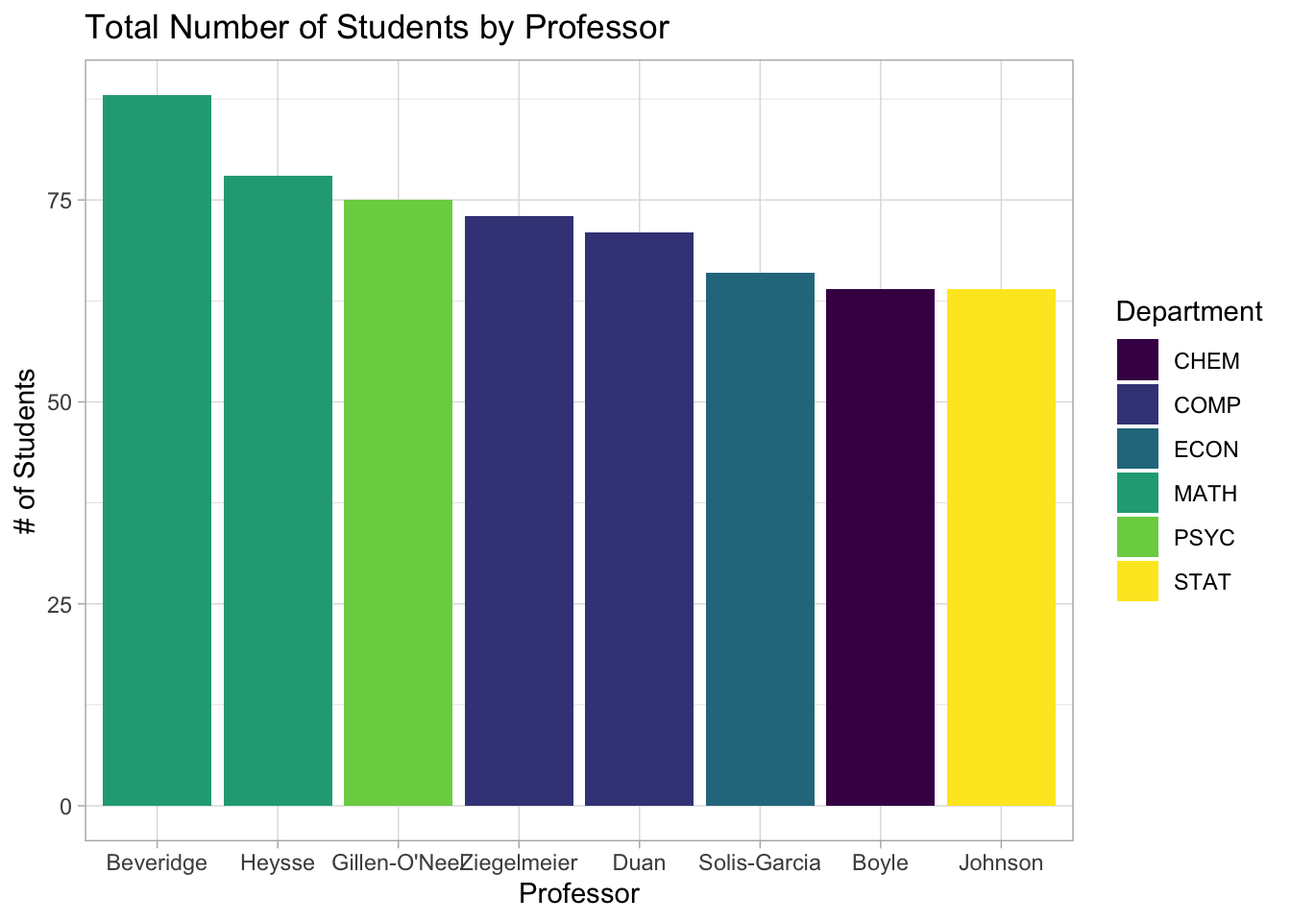
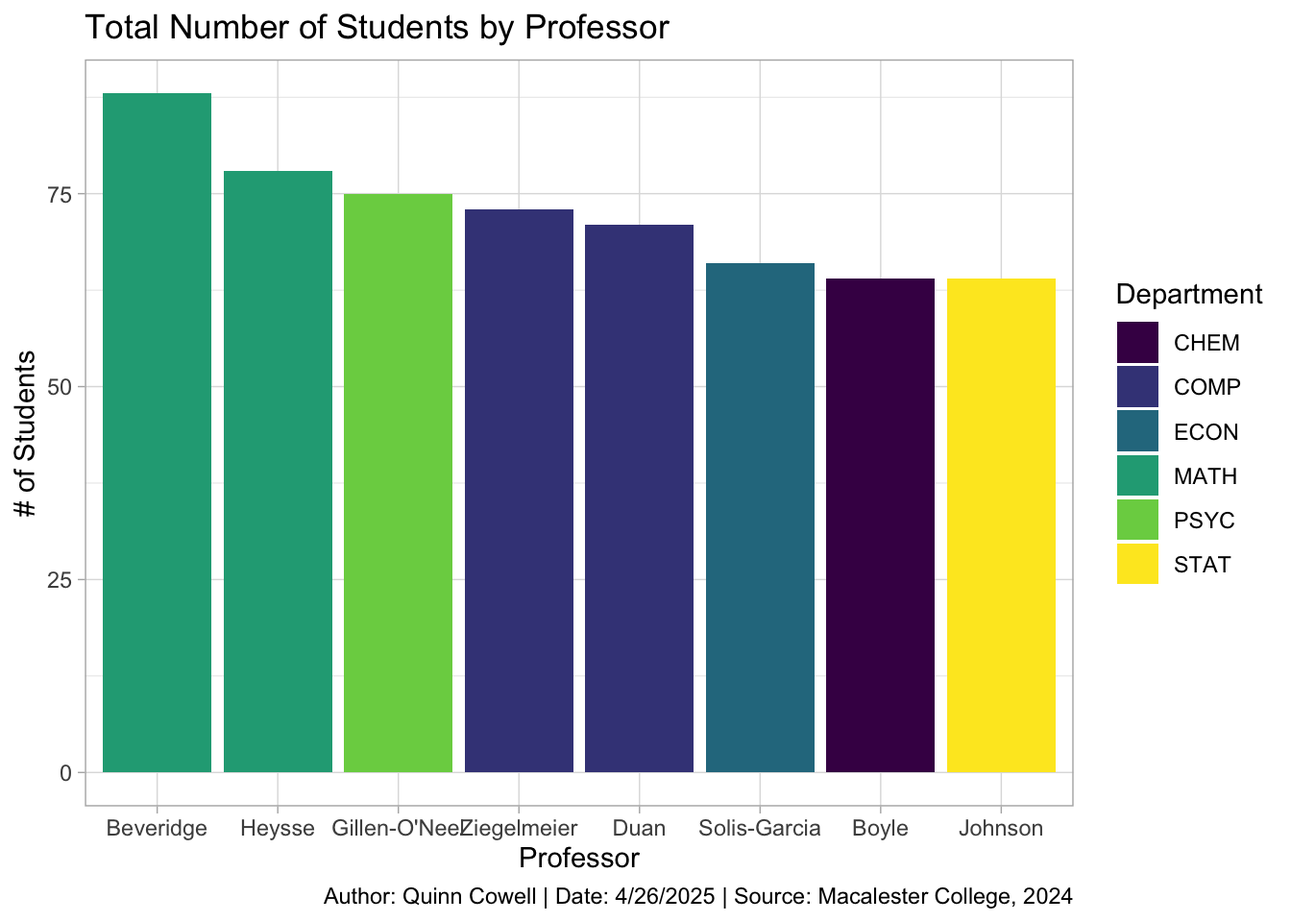
Built site for gh-pages

diff --git a/bw/bw-spatial.html b/bw/bw-spatial.html
@@ -306,8 +306,8 @@ pre > code.sourceCode > span > a:first-child::before { text-decoration: underlin
 <div class="cell">
 <div class="cell-output-display">
 <div class="quarto-figure quarto-figure-center">
-<figure class="figure"><p><img src="bw-spatial_files/figure-html/unnamed-chunk-1-1.png" class="img-fluid figure-img" alt="A choropleth map of the US showing percentage of Republican vote share by county in the 2020 presidential election. Republicans tend to have higher vote shares in less dense areas, and lower vote shares in more dense areas." width="672"></p>
-<figcaption>A choropleth map of the US showing percentage of Republican vote share by county in the 2020 presidential election.</figcaption></figure>
+<figure class="figure"><p><img src="bw-spatial_files/figure-html/unnamed-chunk-1-1.png" class="img-fluid figure-img" alt="A point map of the US showing the locations of law enforcement agencies and whether they participate in NIBRS. Some states, like New York, Pennsylvania, and Florida, have particularly high concetrations of non-participating agencies." width="672"></p>
+<figcaption>A map of the US showing the locations of law enforcement agencies and whether they participate in NIBRS</figcaption></figure>
 </div>
 </div>
 </div>
@@ -956,39 +956,31 @@ window.document.addEventListener("DOMContentLoaded", function (event) {
 <span id="cb1-8"><a href="#cb1-8"></a>Use this file to generate a professional looking **spatial** visualization.  The visualization will not perfect the first time but you are expected to improve on it throughout the semester especially after covering advanced topics such as effective viz.</span>
 <span id="cb1-9"><a href="#cb1-9"></a></span>
 <span id="cb1-12"><a href="#cb1-12"></a><span class="in">```{r}</span></span>
-<span id="cb1-13"><a href="#cb1-13"></a><span class="co">#| fig-cap: "A choropleth map of the US showing percentage of Republican vote share by county in the 2020 presidential election."</span></span>
-<span id="cb1-14"><a href="#cb1-14"></a><span class="co">#| fig-alt: "A choropleth map of the US showing percentage of Republican vote share by county in the 2020 presidential election. Republicans tend to have higher vote shares in less dense areas, and lower vote shares in more dense areas."</span></span>
-<span id="cb1-15"><a href="#cb1-15"></a><span class="fu">library</span>(tidyverse)</span>
-<span id="cb1-16"><a href="#cb1-16"></a><span class="fu">library</span>(RColorBrewer)</span>
-<span id="cb1-17"><a href="#cb1-17"></a><span class="fu">library</span>(socviz)</span>
-<span id="cb1-18"><a href="#cb1-18"></a><span class="fu">data</span>(county_map) </span>
-<span id="cb1-19"><a href="#cb1-19"></a></span>
-<span id="cb1-20"><a href="#cb1-20"></a>elections_by_counties <span class="ot">&lt;-</span> <span class="fu">read.csv</span>(<span class="st">"https://mac-stat.github.io/data/election_2020_county.csv"</span>)</span>
-<span id="cb1-21"><a href="#cb1-21"></a></span>
-<span id="cb1-22"><a href="#cb1-22"></a>elections_by_counties <span class="ot">&lt;-</span> elections_by_counties <span class="sc">|&gt;</span> </span>
-<span id="cb1-23"><a href="#cb1-23"></a>  <span class="fu">select</span>(state_name, state_abbr, county_name, county_fips,</span>
-<span id="cb1-24"><a href="#cb1-24"></a>          repub_pct_20, median_age, median_rent) <span class="sc">|&gt;</span> </span>
-<span id="cb1-25"><a href="#cb1-25"></a>  <span class="fu">mutate</span>(<span class="at">repub_20_categories =</span> </span>
-<span id="cb1-26"><a href="#cb1-26"></a>           <span class="fu">cut</span>(repub_pct_20, </span>
-<span id="cb1-27"><a href="#cb1-27"></a>               <span class="at">breaks =</span> <span class="fu">seq</span>(<span class="dv">0</span>, <span class="dv">100</span>, <span class="at">by =</span> <span class="dv">10</span>),</span>
-<span id="cb1-28"><a href="#cb1-28"></a>               <span class="at">labels =</span> <span class="fu">c</span>(<span class="st">"0-9"</span>, <span class="st">"10-19"</span>, <span class="st">"20-29"</span>, <span class="st">"30-39"</span>, <span class="st">"40-49"</span>,</span>
-<span id="cb1-29"><a href="#cb1-29"></a>                          <span class="st">"50-59"</span>, <span class="st">"60-69"</span>, <span class="st">"70-79"</span>, <span class="st">"80-89"</span>, <span class="st">"90-100"</span>),</span>
-<span id="cb1-30"><a href="#cb1-30"></a>               <span class="at">include.lowest =</span> <span class="cn">TRUE</span>))</span>
-<span id="cb1-31"><a href="#cb1-31"></a></span>
-<span id="cb1-32"><a href="#cb1-32"></a>elections_by_counties <span class="ot">&lt;-</span> elections_by_counties <span class="sc">|&gt;</span> </span>
-<span id="cb1-33"><a href="#cb1-33"></a>  <span class="fu">mutate</span>(<span class="at">county_fips =</span> <span class="fu">as.character</span>(county_fips)) <span class="sc">|&gt;</span> </span>
-<span id="cb1-34"><a href="#cb1-34"></a>  <span class="fu">mutate</span>(<span class="at">county_fips =</span> </span>
-<span id="cb1-35"><a href="#cb1-35"></a>           <span class="fu">ifelse</span>(<span class="fu">nchar</span>(county_fips) <span class="sc">==</span> <span class="dv">4</span>, <span class="fu">paste0</span>(<span class="st">"0"</span>, county_fips), county_fips))</span>
-<span id="cb1-36"><a href="#cb1-36"></a></span>
-<span id="cb1-37"><a href="#cb1-37"></a><span class="fu">ggplot</span>(elections_by_counties, <span class="fu">aes</span>(<span class="at">map_id =</span> county_fips, <span class="at">fill =</span> repub_20_categories)) <span class="sc">+</span></span>
-<span id="cb1-38"><a href="#cb1-38"></a>  <span class="fu">geom_map</span>(<span class="at">map =</span> county_map) <span class="sc">+</span></span>
-<span id="cb1-39"><a href="#cb1-39"></a>  <span class="fu">scale_fill_manual</span>(<span class="at">values =</span> <span class="fu">rev</span>(<span class="fu">brewer.pal</span>(<span class="dv">10</span>, <span class="st">"RdBu"</span>)), <span class="at">name =</span> <span class="st">"% Republican"</span>) <span class="sc">+</span></span>
-<span id="cb1-40"><a href="#cb1-40"></a>  <span class="fu">expand_limits</span>(<span class="at">x =</span> county_map<span class="sc">$</span>long, <span class="at">y =</span> county_map<span class="sc">$</span>lat) <span class="sc">+</span></span>
-<span id="cb1-41"><a href="#cb1-41"></a>  <span class="fu">theme_void</span>() <span class="sc">+</span></span>
-<span id="cb1-42"><a href="#cb1-42"></a>  <span class="fu">theme</span>(<span class="at">legend.position =</span> <span class="st">"right"</span>) <span class="sc">+</span> </span>
-<span id="cb1-43"><a href="#cb1-43"></a>  <span class="fu">coord_equal</span>() <span class="sc">+</span></span>
-<span id="cb1-44"><a href="#cb1-44"></a>  <span class="fu">labs</span>(<span class="at">title =</span> <span class="st">"Republican Vote % by County in the 2020 Presidential Election"</span>)</span>
-<span id="cb1-45"><a href="#cb1-45"></a><span class="in">```</span></span>
+<span id="cb1-13"><a href="#cb1-13"></a><span class="co">#| fig-cap: "A map of the US showing the locations of law enforcement agencies and whether they participate in NIBRS"</span></span>
+<span id="cb1-14"><a href="#cb1-14"></a><span class="co">#| fig-alt: "A point map of the US showing the locations of law enforcement agencies and whether they participate in NIBRS. Some states, like New York, Pennsylvania, and Florida, have particularly high concetrations of non-participating agencies."</span></span>
+<span id="cb1-15"><a href="#cb1-15"></a><span class="co"># load packages</span></span>
+<span id="cb1-16"><a href="#cb1-16"></a><span class="fu">library</span>(tidyverse)</span>
+<span id="cb1-17"><a href="#cb1-17"></a><span class="fu">library</span>(rnaturalearth)</span>
+<span id="cb1-18"><a href="#cb1-18"></a><span class="co">#load data</span></span>
+<span id="cb1-19"><a href="#cb1-19"></a>agencies <span class="ot">&lt;-</span> readr<span class="sc">::</span><span class="fu">read_csv</span>(<span class="st">'https://raw.githubusercontent.com/rfordatascience/tidytuesday/main/data/2025/2025-02-18/agencies.csv'</span>)</span>
+<span id="cb1-20"><a href="#cb1-20"></a><span class="co"># Create bg map</span></span>
+<span id="cb1-21"><a href="#cb1-21"></a>us_boundaries <span class="ot">&lt;-</span> <span class="fu">ne_states</span>(</span>
+<span id="cb1-22"><a href="#cb1-22"></a>  <span class="at">country =</span> <span class="fu">c</span>(<span class="st">"united states of america"</span>),</span>
+<span id="cb1-23"><a href="#cb1-23"></a>  <span class="at">returnclass =</span> <span class="st">"sf"</span>)</span>
+<span id="cb1-24"><a href="#cb1-24"></a><span class="co"># Plot map</span></span>
+<span id="cb1-25"><a href="#cb1-25"></a><span class="fu">ggplot</span>(us_boundaries) <span class="sc">+</span></span>
+<span id="cb1-26"><a href="#cb1-26"></a>  <span class="fu">geom_sf</span>(<span class="at">fill =</span> <span class="st">"white"</span>, <span class="at">color =</span> <span class="st">"black"</span>) <span class="sc">+</span></span>
+<span id="cb1-27"><a href="#cb1-27"></a>  <span class="fu">geom_point</span>(</span>
+<span id="cb1-28"><a href="#cb1-28"></a>    <span class="at">data =</span> agencies,</span>
+<span id="cb1-29"><a href="#cb1-29"></a>    <span class="fu">aes</span>(<span class="at">x =</span> longitude, <span class="at">y =</span> latitude, <span class="at">color =</span> is_nibrs),</span>
+<span id="cb1-30"><a href="#cb1-30"></a>    <span class="at">size =</span> <span class="fl">0.3</span>,</span>
+<span id="cb1-31"><a href="#cb1-31"></a>    <span class="at">alpha =</span> <span class="fl">0.5</span>) <span class="sc">+</span></span>
+<span id="cb1-32"><a href="#cb1-32"></a>  <span class="fu">coord_sf</span>(<span class="at">xlim =</span> <span class="fu">c</span>(<span class="sc">-</span><span class="fl">123.14</span>, <span class="sc">-</span><span class="dv">69</span>), <span class="at">ylim =</span> <span class="fu">c</span>(<span class="dv">23</span>, <span class="fl">50.11</span>)) <span class="sc">+</span></span>
+<span id="cb1-33"><a href="#cb1-33"></a>  <span class="fu">labs</span>(<span class="at">color =</span> <span class="st">"Participates in NIBRS"</span>,</span>
+<span id="cb1-34"><a href="#cb1-34"></a>       <span class="at">title =</span> <span class="st">"Map of Participating Agencies in the Contiguous US"</span>,</span>
+<span id="cb1-35"><a href="#cb1-35"></a>       <span class="at">caption =</span> <span class="st">"Author: Quinn Cowell | Date: 4/25/2025 | Source: FBI Crime Data API, 2025"</span>) <span class="sc">+</span></span>
+<span id="cb1-36"><a href="#cb1-36"></a>  <span class="fu">theme_void</span>()</span>
+<span id="cb1-37"><a href="#cb1-37"></a><span class="in">```</span></span>
 </code><button title="Copy to Clipboard" class="code-copy-button" data-in-quarto-modal=""><i class="bi"></i></button></pre></div>
 </div></div></div></div></div>
 </div> <!-- /content -->

diff --git a/bw/bw-solo-project.html b/bw/bw-solo-project.html
@@ -308,7 +308,7 @@ pre > code.sourceCode > span > a:first-child::before { text-decoration: underlin
 </div>
 </div>
 </div>
-<p>It is a well-known fact, at least in Lithuania, that the small Baltic state has been facing a decline in population since joining the EU in 2003, as Lithuanians seek better opportunities in the wealthier countries of Western Europe. However, a less widely-discussed migratory phenomenon is the movement of Lithuanians within their own country. I studied abroad in Vilnius, Lithuania in the fall of 2023. Not only is Vilnius a surprisingly international city, but also a destination city for Lithuanians with roots all across the country, from Alytus to Šilutė. This made me wonder: where do Lithuanians move to, and where do they move from? I gathered data from the Lithuanian state data agency and coded a map. The choropleth map above shows the average annual net internal migration in Lithuania within the period 2019-2023, divided by county (Lithuanian: apskritis) between the years; all counties share a name with their respective capital city. Green counties experienced a net gain of residents, while purple counties experienced a net loss. Unsurprisingly, the three green counties contain the three largest cities in Lithuania: Vilnius, the capital and largest city, experienced the greatest gain in residents by far, while Klaipėda, a seaside resort town, and Kaunas, in central Lithuania, experienced the second- and third-greatest gains in residents. Interestingly, the county containing the fourth-largest city in Lithuania, Šiauliai, experienced the greatest net decrease in population. This may be because, anecdotally, Šiauliai (as well as Lithuania’s fifth-largest city, Panevėžys) has a reputation for being particularly economically depressed and crime-ridden. These are only stereotypes, but these two do top the list in terms of net population loss. These values may also be impacted by population differences between the counties, so there could be other counties that have worse outmigration crises than Šiauliai and Panevėžys which are obscured due to smaller population size.</p>
+<p>It is a well-known fact, at least in Lithuania, that the small Baltic state has been facing a decline in population since joining the EU in 2003, as Lithuanians seek better opportunities in the wealthier countries of Western Europe. However, a less widely-discussed migratory phenomenon is the movement of Lithuanians within their own country. I studied abroad in Vilnius, Lithuania in the fall of 2023. Not only is Vilnius a surprisingly international city, but also a destination city for Lithuanians with roots all across the country, from Alytus to Šilutė. This made me wonder: where do Lithuanians move to, and where do they move from? I gathered data from the Lithuanian state data agency and coded a map. The choropleth map above shows the average annual net internal migration in Lithuania within the period 2019-2023, divided by county (Lithuanian: <em>apskritis</em>) between the years; all counties share a name with their respective capital city. Green counties experienced a net gain of residents, while purple counties experienced a net loss. Unsurprisingly, the three green counties contain the three largest cities in Lithuania: Vilnius, the capital and largest city, experienced the greatest gain in residents by far, while Klaipėda, a port city, and Kaunas, in central Lithuania, experienced the second- and third-greatest gains in residents. Interestingly, the county containing the fourth-largest city in Lithuania, Šiauliai, experienced the greatest net decrease in population. This may be because, anecdotally, Šiauliai (as well as Lithuania’s fifth-largest city, Panevėžys) has a reputation for being particularly economically depressed and crime-ridden. These are only stereotypes, but these two do top the list in terms of net population loss. These values may also be impacted by population differences between the counties, so there could be other counties that have worse outmigration crises than Šiauliai and Panevėžys which are obscured due to smaller population size.</p>
 
 
 <!-- -->
@@ -1015,11 +1015,12 @@ window.document.addEventListener("DOMContentLoaded", function (event) {
 <span id="cb1-79"><a href="#cb1-79"></a>  <span class="fu">theme_void</span>() <span class="sc">+</span></span>
 <span id="cb1-80"><a href="#cb1-80"></a>  <span class="fu">scale_fill_manual</span>(<span class="at">values =</span> <span class="fu">brewer.pal</span>(<span class="at">n =</span> <span class="dv">6</span>, <span class="at">name =</span> <span class="st">"PRGn"</span>), <span class="at">name =</span> <span class="st">"# Migrants"</span>) <span class="sc">+</span></span>
 <span id="cb1-81"><a href="#cb1-81"></a>  <span class="fu">labs</span>(</span>
-<span id="cb1-82"><a href="#cb1-82"></a>    <span class="at">title =</span> <span class="st">"Average Net Internal Migration in Lithuania, 2019-2023"</span>,</span>
-<span id="cb1-83"><a href="#cb1-83"></a>    <span class="at">caption =</span> <span class="st">"Author: Quinn Cowell | Date: 4/20/2024 | Source: Valstybės duomenų agentūra, 2024"</span>)</span>
-<span id="cb1-84"><a href="#cb1-84"></a><span class="in">```</span></span>
-<span id="cb1-85"><a href="#cb1-85"></a></span>
-<span id="cb1-86"><a href="#cb1-86"></a>It is a well-known fact, at least in Lithuania, that the small Baltic state has been facing a decline in population since joining the EU in 2003, as Lithuanians seek better opportunities in the wealthier countries of Western Europe. However, a less widely-discussed migratory phenomenon is the movement of Lithuanians within their own country. I studied abroad in Vilnius, Lithuania in the fall of 2023. Not only is Vilnius a surprisingly international city, but also a destination city for Lithuanians with roots all across the country, from Alytus to Šilutė. This made me wonder: where do Lithuanians move to, and where do they move from? I gathered data from the Lithuanian state data agency and coded a map. The choropleth map above shows the average annual net internal migration in Lithuania within the period 2019-2023, divided by county (Lithuanian: apskritis) between the years; all counties share a name with their respective capital city. Green counties experienced a net gain of residents, while purple counties experienced a net loss. Unsurprisingly, the three green counties contain the three largest cities in Lithuania: Vilnius, the capital and largest city, experienced the greatest gain in residents by far, while Klaipėda, a seaside resort town, and Kaunas, in central Lithuania, experienced the second- and third-greatest gains in residents. Interestingly, the county containing the fourth-largest city in Lithuania, Šiauliai, experienced the greatest net decrease in population. This may be because, anecdotally, Šiauliai (as well as Lithuania's fifth-largest city, Panevėžys) has a reputation for being particularly economically depressed and crime-ridden. These are only stereotypes, but these two do top the list in terms of net population loss. These values may also be impacted by population differences between the counties, so there could be other counties that have worse outmigration crises than Šiauliai and Panevėžys which are obscured due to smaller population size.</span>
+<span id="cb1-82"><a href="#cb1-82"></a>    <span class="at">title =</span> <span class="st">"Internal Migration in Lithuania, 2019-2023"</span>,</span>
+<span id="cb1-83"><a href="#cb1-83"></a>    <span class="at">subtitle =</span> <span class="st">"Average net migrants per year per county"</span>,</span>
+<span id="cb1-84"><a href="#cb1-84"></a>    <span class="at">caption =</span> <span class="st">"Author: Quinn Cowell | Date: 4/20/2024 | Source: Valstybės duomenų agentūra, 2024"</span>)</span>
+<span id="cb1-85"><a href="#cb1-85"></a><span class="in">```</span></span>
+<span id="cb1-86"><a href="#cb1-86"></a></span>
+<span id="cb1-87"><a href="#cb1-87"></a>It is a well-known fact, at least in Lithuania, that the small Baltic state has been facing a decline in population since joining the EU in 2003, as Lithuanians seek better opportunities in the wealthier countries of Western Europe. However, a less widely-discussed migratory phenomenon is the movement of Lithuanians within their own country. I studied abroad in Vilnius, Lithuania in the fall of 2023. Not only is Vilnius a surprisingly international city, but also a destination city for Lithuanians with roots all across the country, from Alytus to Šilutė. This made me wonder: where do Lithuanians move to, and where do they move from? I gathered data from the Lithuanian state data agency and coded a map. The choropleth map above shows the average annual net internal migration in Lithuania within the period 2019-2023, divided by county (Lithuanian: *apskritis*) between the years; all counties share a name with their respective capital city. Green counties experienced a net gain of residents, while purple counties experienced a net loss. Unsurprisingly, the three green counties contain the three largest cities in Lithuania: Vilnius, the capital and largest city, experienced the greatest gain in residents by far, while Klaipėda, a port city, and Kaunas, in central Lithuania, experienced the second- and third-greatest gains in residents. Interestingly, the county containing the fourth-largest city in Lithuania, Šiauliai, experienced the greatest net decrease in population. This may be because, anecdotally, Šiauliai (as well as Lithuania's fifth-largest city, Panevėžys) has a reputation for being particularly economically depressed and crime-ridden. These are only stereotypes, but these two do top the list in terms of net population loss. These values may also be impacted by population differences between the counties, so there could be other counties that have worse outmigration crises than Šiauliai and Panevėžys which are obscured due to smaller population size.</span>
 </code><button title="Copy to Clipboard" class="code-copy-button" data-in-quarto-modal=""><i class="bi"></i></button></pre></div>
 </div></div></div></div></div>
 </div> <!-- /content -->

diff --git a/bw/bw-bi.html b/bw/bw-bi.html
@@ -968,10 +968,13 @@ window.document.addEventListener("DOMContentLoaded", function (event) {
 <span id="cb1-22"><a href="#cb1-22"></a>  <span class="fu">filter</span>(<span class="sc">!</span><span class="fu">is.na</span>(agency_type)) <span class="sc">|&gt;</span></span>
 <span id="cb1-23"><a href="#cb1-23"></a>  <span class="fu">mutate</span>(<span class="at">agency_type =</span> <span class="fu">fct_rev</span>(<span class="fu">fct_relevel</span>(agency_type, <span class="fu">c</span>(<span class="st">"City"</span>, <span class="st">"County"</span>, <span class="st">"State Police"</span>, <span class="st">"Tribal"</span>, <span class="st">"University or College"</span>, <span class="st">"Other State Agency"</span>, <span class="st">"Other"</span>)))) <span class="sc">|&gt;</span></span>
 <span id="cb1-24"><a href="#cb1-24"></a><span class="fu">ggplot</span>(<span class="fu">aes</span>(<span class="at">x =</span> nibrs_start_date, <span class="at">y =</span> agency_type)) <span class="sc">+</span></span>
-<span id="cb1-25"><a href="#cb1-25"></a>  <span class="fu">geom_density_ridges</span>(<span class="at">alpha =</span> <span class="fl">0.5</span>, <span class="at">scale =</span> .<span class="dv">95</span>) <span class="sc">+</span></span>
-<span id="cb1-26"><a href="#cb1-26"></a>  <span class="fu">labs</span>(<span class="at">x =</span> <span class="st">"NIBRS Start Date"</span>, <span class="at">y =</span> <span class="st">"Agency Type"</span>, <span class="at">title =</span> <span class="st">"NIBRS Start Date by Agency Type"</span>) <span class="sc">+</span></span>
-<span id="cb1-27"><a href="#cb1-27"></a>  <span class="fu">theme_light</span>()</span>
-<span id="cb1-28"><a href="#cb1-28"></a><span class="in">```</span></span>
+<span id="cb1-25"><a href="#cb1-25"></a>  <span class="fu">geom_density_ridges</span>(<span class="at">alpha =</span> .<span class="dv">75</span>, <span class="at">scale =</span> .<span class="dv">95</span>) <span class="sc">+</span></span>
+<span id="cb1-26"><a href="#cb1-26"></a>  <span class="fu">labs</span>(<span class="at">x =</span> <span class="st">"NIBRS Start Date"</span>,</span>
+<span id="cb1-27"><a href="#cb1-27"></a>       <span class="at">y =</span> <span class="st">"Agency Type"</span>,</span>
+<span id="cb1-28"><a href="#cb1-28"></a>       <span class="at">title =</span> <span class="st">"NIBRS Start Date by Agency Type"</span>,</span>
+<span id="cb1-29"><a href="#cb1-29"></a>       <span class="at">caption =</span> <span class="st">"Author: Quinn Cowell | Date: 4/25/2025 | Source: FBI Crime Data API, 2025"</span>) <span class="sc">+</span></span>
+<span id="cb1-30"><a href="#cb1-30"></a>  <span class="fu">theme_light</span>()</span>
+<span id="cb1-31"><a href="#cb1-31"></a><span class="in">```</span></span>
 </code><button title="Copy to Clipboard" class="code-copy-button" data-in-quarto-modal=""><i class="bi"></i></button></pre></div>
 </div></div></div></div></div>
 </div> <!-- /content -->

diff --git a/bw/bw-quad.html b/bw/bw-quad.html
@@ -979,8 +979,12 @@ window.document.addEventListener("DOMContentLoaded", function (event) {
 <span id="cb1-33"><a href="#cb1-33"></a>    <span class="at">labels =</span> <span class="fu">c</span>(<span class="st">"$25k"</span>, <span class="st">"$30k"</span>, <span class="st">"$35k"</span>, <span class="st">"$40k"</span>, <span class="st">"$45k"</span>),</span>
 <span id="cb1-34"><a href="#cb1-34"></a>    <span class="at">name =</span> <span class="st">"Avg. teacher salary"</span>) <span class="sc">+</span></span>
 <span id="cb1-35"><a href="#cb1-35"></a>  <span class="fu">scale_color_viridis_d</span>(<span class="at">name =</span> <span class="st">"% students taking SAT"</span>, <span class="at">direction =</span> <span class="sc">-</span><span class="dv">1</span>) <span class="sc">+</span></span>
-<span id="cb1-36"><a href="#cb1-36"></a>  <span class="fu">labs</span>(<span class="at">title =</span> <span class="st">"Simpson's paradox and average SAT scores by state, 1994-95"</span>, <span class="at">subtitle =</span> <span class="st">"How test-taker ratios obscure the impact of education funding"</span>, <span class="at">y =</span> <span class="st">"Avg. SAT score"</span>)</span>
-<span id="cb1-37"><a href="#cb1-37"></a><span class="in">```</span></span>
+<span id="cb1-36"><a href="#cb1-36"></a>  <span class="fu">labs</span>(</span>
+<span id="cb1-37"><a href="#cb1-37"></a>    <span class="at">title =</span> <span class="st">"Simpson's paradox and average SAT scores by state, 1994-95"</span>,</span>
+<span id="cb1-38"><a href="#cb1-38"></a>    <span class="at">subtitle =</span> <span class="st">"How test-taker ratios obscure the impact of education funding"</span>,</span>
+<span id="cb1-39"><a href="#cb1-39"></a>    <span class="at">caption =</span> <span class="st">"Author: Quinn Cowell | Date: 4/26/2025 | Source: Deborah Guber, 1999"</span>,</span>
+<span id="cb1-40"><a href="#cb1-40"></a>    <span class="at">y =</span> <span class="st">"Avg. SAT score"</span>)</span>
+<span id="cb1-41"><a href="#cb1-41"></a><span class="in">```</span></span>
 </code><button title="Copy to Clipboard" class="code-copy-button" data-in-quarto-modal=""><i class="bi"></i></button></pre></div>
 </div></div></div></div></div>
 </div> <!-- /content -->

diff --git a/bw/bw-uni.html b/bw/bw-uni.html
@@ -965,9 +965,13 @@ window.document.addEventListener("DOMContentLoaded", function (event) {
 <span id="cb1-19"><a href="#cb1-19"></a><span class="co"># Create bar graph</span></span>
 <span id="cb1-20"><a href="#cb1-20"></a><span class="fu">ggplot</span>(survey, <span class="fu">aes</span>(<span class="at">x =</span> hangout)) <span class="sc">+</span></span>
 <span id="cb1-21"><a href="#cb1-21"></a>  <span class="fu">geom_bar</span>(<span class="at">fill =</span> <span class="st">"grey"</span>) <span class="sc">+</span></span>
-<span id="cb1-22"><a href="#cb1-22"></a>  <span class="fu">labs</span>(<span class="at">x =</span> <span class="st">"Ideal Hangout Spot"</span>, <span class="at">y =</span> <span class="st">"# of Students"</span>, <span class="at">title =</span> <span class="st">"Ideal Hangout Spots of STAT 112 Students"</span>) <span class="sc">+</span></span>
-<span id="cb1-23"><a href="#cb1-23"></a>  <span class="fu">theme_light</span>()</span>
-<span id="cb1-24"><a href="#cb1-24"></a><span class="in">```</span></span>
+<span id="cb1-22"><a href="#cb1-22"></a>  <span class="fu">labs</span>(</span>
+<span id="cb1-23"><a href="#cb1-23"></a>    <span class="at">x =</span> <span class="st">"Ideal Hangout Spot"</span>, </span>
+<span id="cb1-24"><a href="#cb1-24"></a>    <span class="at">y =</span> <span class="st">"# of Students"</span>, </span>
+<span id="cb1-25"><a href="#cb1-25"></a>    <span class="at">title =</span> <span class="st">"Ideal Hangout Spots of STAT 112 Students"</span>,</span>
+<span id="cb1-26"><a href="#cb1-26"></a>    <span class="at">caption =</span> <span class="st">"Author: Quinn Cowell | Date: 4/26/2025 | Source: Amin Alhashim, 2025"</span>) <span class="sc">+</span></span>
+<span id="cb1-27"><a href="#cb1-27"></a>  <span class="fu">theme_light</span>()</span>
+<span id="cb1-28"><a href="#cb1-28"></a><span class="in">```</span></span>
 </code><button title="Copy to Clipboard" class="code-copy-button" data-in-quarto-modal=""><i class="bi"></i></button></pre></div>
 </div></div></div></div></div>
 </div> <!-- /content -->

diff --git a/bw/bw-tri.html b/bw/bw-tri.html
@@ -995,10 +995,11 @@ window.document.addEventListener("DOMContentLoaded", function (event) {
 <span id="cb1-49"><a href="#cb1-49"></a>      <span class="at">title =</span> <span class="st">"Total Number of Students by Professor"</span>, </span>
 <span id="cb1-50"><a href="#cb1-50"></a>      <span class="at">x =</span> <span class="st">"Professor"</span>, </span>
 <span id="cb1-51"><a href="#cb1-51"></a>      <span class="at">y =</span> <span class="st">"# of Students"</span>, </span>
-<span id="cb1-52"><a href="#cb1-52"></a>      <span class="at">fill =</span> <span class="st">"Department"</span>) <span class="sc">+</span></span>
-<span id="cb1-53"><a href="#cb1-53"></a>    <span class="fu">theme_light</span>() <span class="sc">+</span></span>
-<span id="cb1-54"><a href="#cb1-54"></a>    <span class="fu">scale_fill_viridis_d</span>()</span>
-<span id="cb1-55"><a href="#cb1-55"></a><span class="in">```</span></span>
+<span id="cb1-52"><a href="#cb1-52"></a>      <span class="at">fill =</span> <span class="st">"Department"</span>,</span>
+<span id="cb1-53"><a href="#cb1-53"></a>      <span class="at">caption =</span> <span class="st">"Author: Quinn Cowell | Date: 4/26/2025 | Source: Macalester College, 2024"</span>) <span class="sc">+</span></span>
+<span id="cb1-54"><a href="#cb1-54"></a>    <span class="fu">theme_light</span>() <span class="sc">+</span></span>
+<span id="cb1-55"><a href="#cb1-55"></a>    <span class="fu">scale_fill_viridis_d</span>()</span>
+<span id="cb1-56"><a href="#cb1-56"></a><span class="in">```</span></span>
 </code><button title="Copy to Clipboard" class="code-copy-button" data-in-quarto-modal=""><i class="bi"></i></button></pre></div>
 </div></div></div></div></div>
 </div> <!-- /content -->

diff --git a/index.html b/index.html
@@ -5,7 +5,7 @@
 <meta name="generator" content="quarto-1.5.57">
 <meta name="viewport" content="width=device-width, initial-scale=1.0, user-scalable=yes">
 <meta name="author" content="Quinn Cowell">
-<meta name="dcterms.date" content="2025-04-24">
+<meta name="dcterms.date" content="2025-04-26">
 <title>COMP/STAT112 Notebook</title>
 <style>
 code{white-space: pre-wrap;}
@@ -310,7 +310,7 @@ pre > code.sourceCode > span > a:first-child::before { text-decoration: underlin
     <div>
     <div class="quarto-title-meta-heading">Published</div>
     <div class="quarto-title-meta-contents">
-      <p class="date">April 24, 2025</p>
+      <p class="date">April 26, 2025</p>
     </div>
   </div>
   
